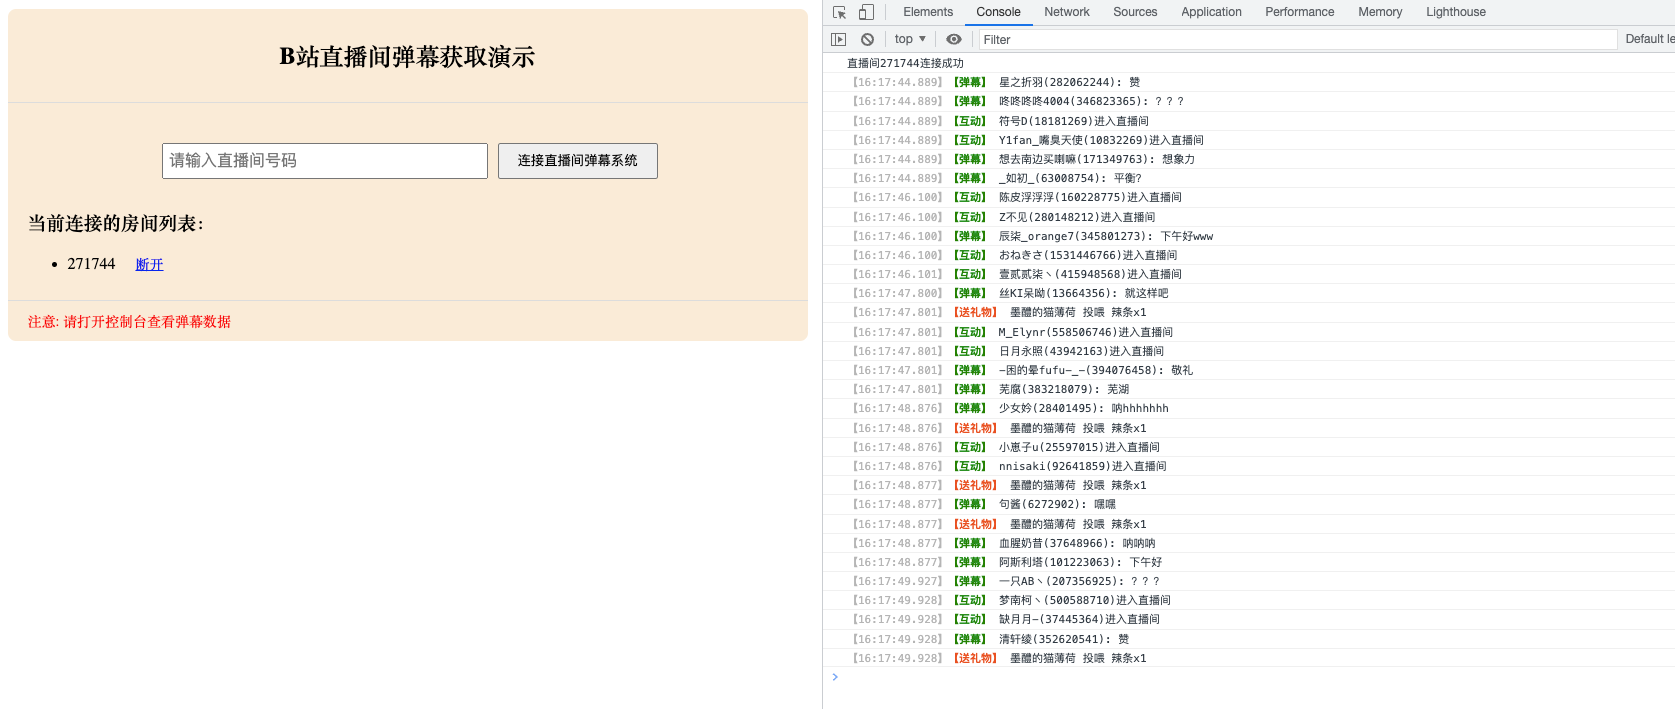
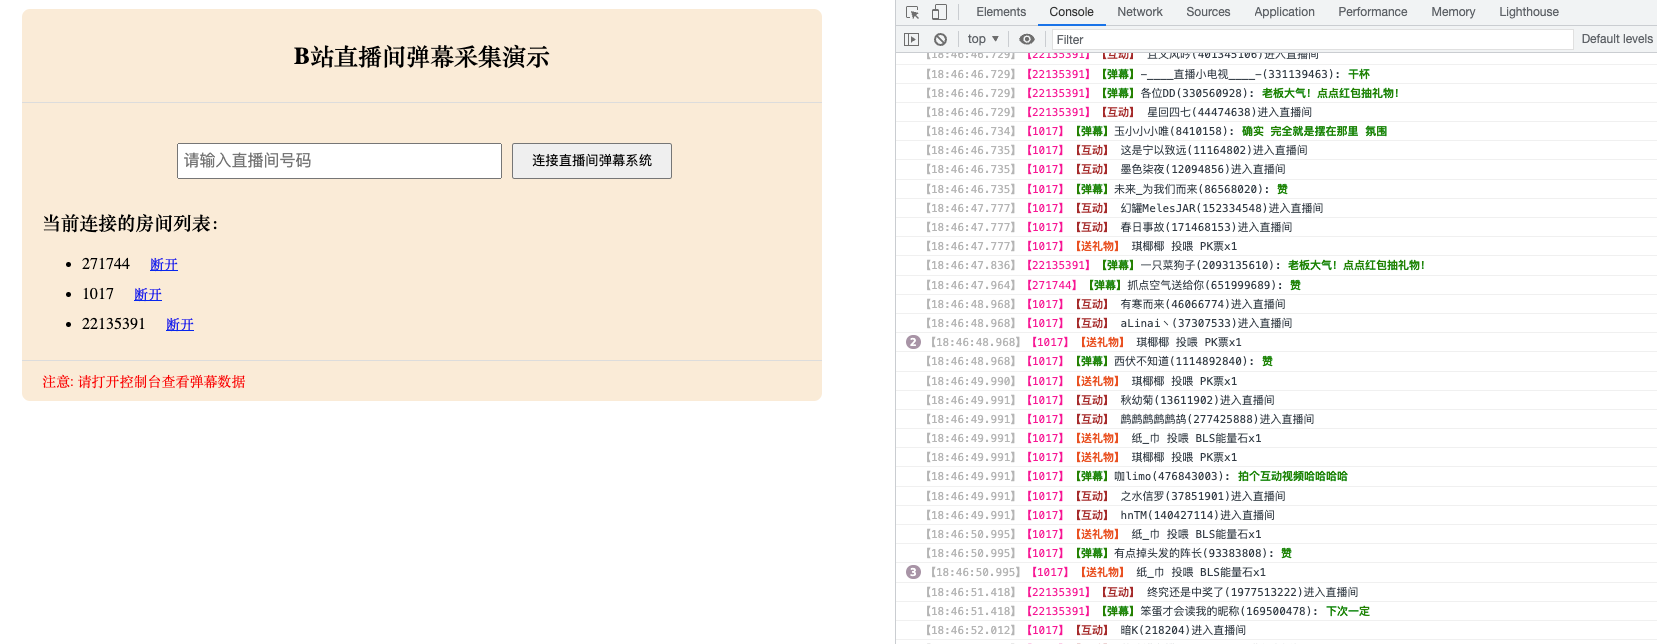
优化

Changed region(s): [[0.0, 0.0, 1.0, 0.9938], [0.1539, 0.0621, 0.3386, 0.1242]]

diff --git a/apps/demo/logger.js b/apps/demo/logger.js
@@ -1,18 +1,53 @@
 export default class Logger {
-    static debug(type, msg) {
-        console.debug(`%c【${now()}】%c【${type}】`, "color:#b5b5b5", "color: gray;font-weight: bold", msg)
+    static debug(rid, type, msg) {
+        console.debug(
+            `%c【${now()}】%c【${rid}】%c【${type}】`,
+            "color: #b5b5b5",
+            "color: deeppink",
+            "color: gray;font-weight: bold",
+            msg,
+        )
     }
 
-    static info(type, msg) {
-        console.log(`%c【${now()}】%c【${type}】`, "color:#b5b5b5", "color: green;font-weight: bold;", msg)
+    static info(rid, type, msg) {
+        console.log(
+            `%c【${now()}】%c【${rid}】%c【${type}】`,
+            "color: #b5b5b5",
+            "color: deeppink",
+            "color: brown;font-weight: bold;",
+            msg,
+        )
     }
 
-    static warn(type, msg) {
-        console.log(`%c【${now()}】%c【${type}】`, "color:#b5b5b5", "color: #E95020;font-weight: bold;", msg)
+    static warn(rid, type, msg) {
+        console.log(
+            `%c【${now()}】%c【${rid}】%c【${type}】`,
+            "color: #b5b5b5",
+            "color: deeppink",
+            "color: #E95020;font-weight: bold;",
+            msg,
+        )
     }
 
-    static error(type, msg) {
-        console.log(`%c【${now()}】%c【${type}】`, "color:#b5b5b5", "color: red;font-weight: bold;", msg)
+    static error(rid, type, msg) {
+        console.log(
+            `%c【${now()}】%c【${rid}】%c【${type}】`,
+            "color: #b5b5b5",
+            "color: deeppink",
+            "color: red;font-weight: bold;",
+            msg,
+        )
+    }
+
+    static printDanmaku(rid, danmaku) {
+        console.log(
+            `%c【${now()}】%c【${rid}】%c【弹幕】%c${danmaku.uname}(${danmaku.uid}): %c${danmaku.text}`,
+            "color: #b5b5b5",
+            "color: deeppink",
+            "color: green;font-weight: bold",
+            "",
+            "color: green;font-weight: bold",
+        )
     }
 }
 

diff --git a/apps/demo/events.js b/apps/demo/events.js
@@ -1,18 +1,19 @@
 import Logger from "./logger.js"
 
-export function onSocketOpen(detail) {
+export function onSocketOpen(options, detail) {
     console.log(`直播间${detail.rid}连接成功`)
 }
 
-export function onSocketClose(detail) {
+export function onSocketClose(options, detail) {
     console.log(`直播间${detail.rid}断开连接`)
 }
 
 /**
  * 监听【普通弹幕】: DANMU_MSG
+ * @param options
  * @param data
  */
-export function onDanmuMsg(data) {
+export function onDanmuMsg(options, data) {
     // 示例如下：
     // data.info = [
     //     [],
@@ -26,14 +27,15 @@ export function onDanmuMsg(data) {
         uname: data.info[2][1],
         text: data.info[1],
     }
-    Logger.info('弹幕', `${info.uname}(${info.uid}): ${info.text}`)
+    Logger.printDanmaku(options.rid, info)
 }
 
 /**
  * 监听【直播间互动文字】: INTERACT_WORD
+ * @param options
  * @param data
  */
-export function onInteractWordMsg(data) {
+export function onInteractWordMsg(options, data) {
     // 示例如下：
     // data.data = {
     //     contribution: {
@@ -74,14 +76,15 @@ export function onInteractWordMsg(data) {
         uid: data.data.uid,
         name: data.data.uname,
     }
-    Logger.info("互动",`${user.name}(${user.uid})进入直播间`)
+    Logger.info(options.rid, "互动",`${user.name}(${user.uid})进入直播间`)
 }
 
 /**
  * 监听【送礼物】: SEND_GIFT
+ * @param options
  * @param data
  */
-export function onSendGiftMsg(data) {
+export function onSendGiftMsg(options, data) {
     // 示例如下：
     // data.data = {
     //     action: "投喂",
@@ -161,5 +164,5 @@ export function onSendGiftMsg(data) {
         price: data.data.price,
         action: data.data.action,
     }
-    Logger.warn("送礼物", `${info.name} ${info.action} ${info.giftName}x${info.num}`)
+    Logger.warn(options.rid, "送礼物", `${info.name} ${info.action} ${info.giftName}x${info.num}`)
 }

diff --git a/apps/demo/app.js b/apps/demo/app.js
@@ -85,19 +85,19 @@ form.addEventListener('submit', async (evt) => {
             rooms.set(rid, socket)
             // 绑定事件
             socket.addEventListener('open', ({detail}) => {
-                onSocketOpen(detail)
+                onSocketOpen(socket.options, detail)
             })
             socket.addEventListener('close', ({detail}) => {
-                onSocketClose(detail)
+                onSocketClose(socket.options, detail)
             })
             socket.addEventListener('DANMU_MSG', ({detail}) => {
-                onDanmuMsg(detail)
+                onDanmuMsg(socket.options, detail)
             })
             socket.addEventListener('INTERACT_WORD', ({detail}) => {
-                onInteractWordMsg(detail)
+                onInteractWordMsg(socket.options, detail)
             })
             socket.addEventListener('SEND_GIFT', ({detail}) => {
-                onSendGiftMsg(detail)
+                onSendGiftMsg(socket.options, detail)
             })
 
             renderRoomList()
@@ -119,7 +119,7 @@ roomsEl.addEventListener('click', evt => {
 }, {capture: false})
 
 /**
- *
+ * 渲染房间列表
  */
 function renderRoomList() {
     const ul = document.querySelector('#rooms > ul')

diff --git a/apps/demo/style/app.css b/apps/demo/style/app.css
@@ -7,9 +7,9 @@ p {
 #app {
     position: relative;
     max-width: 800px;
+    min-width: 580px;
     background-color: antiquewhite;
     margin: 10px auto;
-    /*padding: 10px 20px 40px;*/
     border-radius: 8px;
 }
 #app > header {
